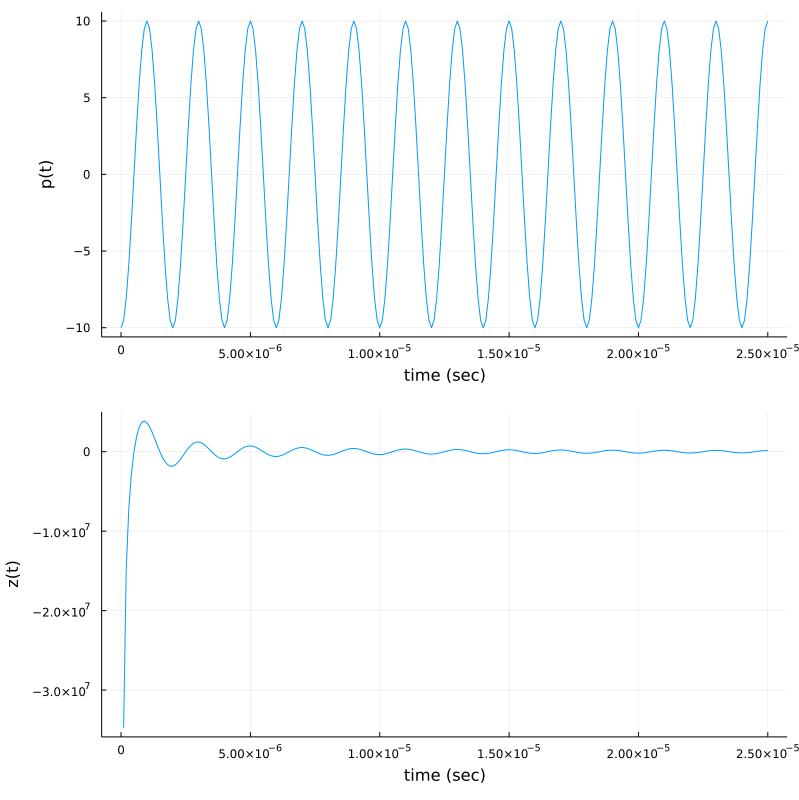
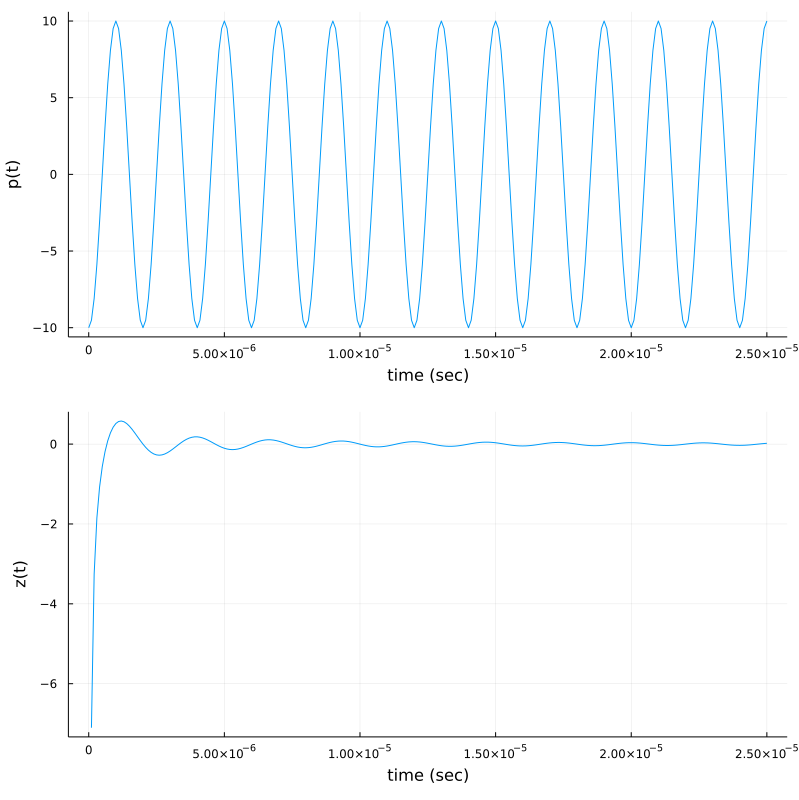
edit Doppler plots

diff --git a/docs/src/modelingLTV Doppler/modelLTVDoppler.md b/docs/src/modelingLTV Doppler/modelLTVDoppler.md
@@ -21,7 +21,7 @@ $\mathsf{h}(\bm{\xi},t;\,{\mathbf{p}_\mathrm{s}}) = \mathsf{A}\left(\frac{\|\bm{
 ```julia
 using LTVsystems
 using Plots
-s = 5.0e-08c  
+s = 0.025c
 𝐯 = [1.0, 0.0]  
 tₚ = 1.0e-06
 𝐩ₛ(t) = [0.18e-06c,0.0] .+ s.*𝐯.*t
@@ -50,7 +50,7 @@ plot(p1,p2,layout=(2,1),size=(800,800))
 using LTVsystems
 using Plots
 𝐩ₛ =  [0.15e-06c,0.0]  
-s = 5.0e-08c 
+s = 0.25c 
 𝐯 = [1.0, 0.0] 
 tₚ = 1.0e-06 
 𝐩ᵣ(t) = 𝐩ₛ .+ s.*𝐯.*t
@@ -77,18 +77,18 @@ plot(p1,p2,layout=(2,1),size=(800,800))
 ```julia
 using LTVsystems
 using Plots
-s₁ = 1.0e-08c  
+s₁ = 0.35c 
 𝐯₁ = [1.0, 0.0]  
-s₂ = 2.0e-08c  
+s₂ = 0.25c 
 𝐯₂ = [-1.0, 0.0]  
 tₚ = 1.0e-06
 𝐩ₛ(t) = [5.0e-06c,0.0] .+ s₁.*𝐯₁.*t 
 𝐩ᵣ(t) = [100.0e-06c,0.0] .+ s₂.*𝐯₂.*t 
-f = 0.5e06
+f = 0.25e06
 p(t) = cos(2π*f*(t-tₚ))
 q = LTVsourceO(𝐩ₛ, p)
 z = LTVreceiverO([q],𝐩ᵣ)
-t=0.0:1.0e-07:25.0e-06
+t=0.0:1.0e-08:25.0e-06
 p1=plot(t,p, xlab="time (sec)", ylab="p(t)", legend=:false)
 p2=plot(t,z(t), xlab="time (sec)", ylab="z(t)", legend=:false)
 plot(p1,p2,layout=(2,1),size=(800,800))
